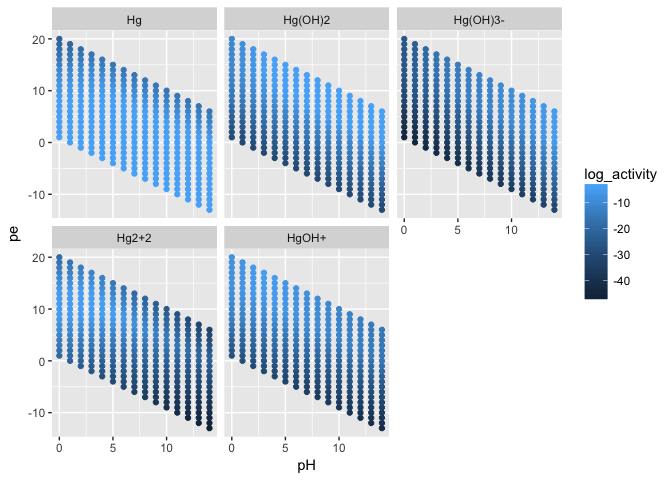
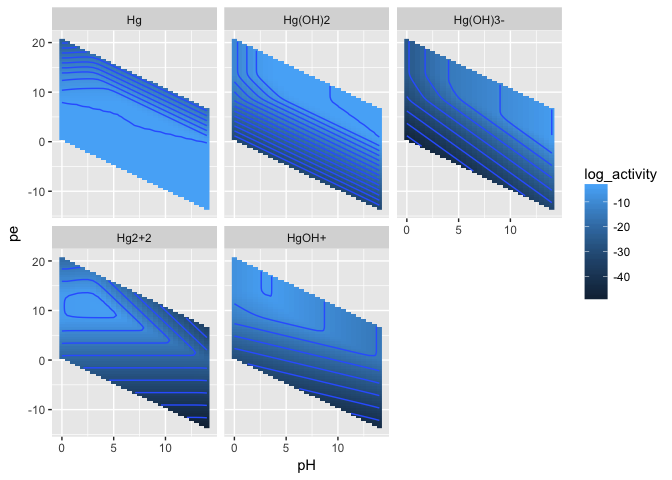
update dbs to use phr_, add tests

diff --git a/README.md b/README.md
@@ -3,12 +3,12 @@
 tidyphreeqc
 ===========
 
-The goal of easyphreeqc is to provide a more useful interface to the existing phreeqc package.
+The goal of tidyphreeqc is to provide a more useful interface to the existing phreeqc package.
 
 Installation
 ------------
 
-You can install easyphreeqc from github with:
+You can install tidyphreeqc from github with:
 
 ``` r
 # install.packages("devtools")
@@ -105,7 +105,7 @@ Pourbaix diagrams
 
 ``` r
 result <- phr_run(
-  phr_solution_list(pH = 0:14, pe = -14:22, Hg = 0.1),
+  phr_solution_list(pH = seq(0, 14, 0.5), pe = seq(-14, 22, 0.5), Hg = 0.1),
   phr_selected_output(
     activities = c("Hg", "Hg2+2", "Hg(OH)2", "Hg(OH)2", "HgOH+", "Hg(OH)3-")
   ),
@@ -116,31 +116,31 @@ result
 #> <phr_run_output>
 #> PHREEQC run with 1 selected output(s)
 #> as_tibble():
-#> # A tibble: 300 x 14
+#> # A tibble: 1,189 x 14
 #>    selected_output   sim state   soln dist_x  time  step    pH    pe la_Hg
 #>    <chr>           <int> <chr>  <int>  <dbl> <dbl> <int> <dbl> <dbl> <dbl>
-#>  1 n1                  1 i_soln     1     NA    NA    NA  14.0 -13.0 -3.92
-#>  2 n1                  1 i_soln     2     NA    NA    NA  13.0 -12.0 -3.99
-#>  3 n1                  1 i_soln     3     NA    NA    NA  14.0 -12.0 -3.92
-#>  4 n1                  1 i_soln     4     NA    NA    NA  12.0 -11.0 -4.00
-#>  5 n1                  1 i_soln     5     NA    NA    NA  13.0 -11.0 -3.99
-#>  6 n1                  1 i_soln     6     NA    NA    NA  14.0 -11.0 -3.92
-#>  7 n1                  1 i_soln     7     NA    NA    NA  11.0 -10.0 -4.00
-#>  8 n1                  1 i_soln     8     NA    NA    NA  12.0 -10.0 -4.00
-#>  9 n1                  1 i_soln     9     NA    NA    NA  13.0 -10.0 -3.99
-#> 10 n1                  1 i_soln    10     NA    NA    NA  14.0 -10.0 -3.92
-#> # ... with 290 more rows, and 4 more variables: `la_Hg2+2` <dbl>,
+#>  1 n1                  1 i_soln     1     NA    NA    NA  14.0 -13.5 -3.92
+#>  2 n1                  1 i_soln     2     NA    NA    NA  13.5 -13.0 -3.98
+#>  3 n1                  1 i_soln     3     NA    NA    NA  14.0 -13.0 -3.92
+#>  4 n1                  1 i_soln     4     NA    NA    NA  13.0 -12.5 -3.99
+#>  5 n1                  1 i_soln     5     NA    NA    NA  13.5 -12.5 -3.98
+#>  6 n1                  1 i_soln     6     NA    NA    NA  14.0 -12.5 -3.92
+#>  7 n1                  1 i_soln     7     NA    NA    NA  12.5 -12.0 -4.00
+#>  8 n1                  1 i_soln     8     NA    NA    NA  13.0 -12.0 -3.99
+#>  9 n1                  1 i_soln     9     NA    NA    NA  13.5 -12.0 -3.98
+#> 10 n1                  1 i_soln    10     NA    NA    NA  14.0 -12.0 -3.92
+#> # ... with 1,179 more rows, and 4 more variables: `la_Hg2+2` <dbl>,
 #> #   `la_Hg(OH)2` <dbl>, `la_HgOH+` <dbl>, `la_Hg(OH)3-` <dbl>
 ```
 
 ``` r
 library(tidyverse)
-#> ── Attaching packages ───────────────────────────────────────────────────────────────────────────────────── tidyverse 1.2.1 ──
+#> ── Attaching packages ─────────────────────────────────────── tidyverse 1.2.1 ──
 #> ✔ ggplot2 2.2.1     ✔ purrr   0.2.4
 #> ✔ tibble  1.4.2     ✔ dplyr   0.7.4
 #> ✔ tidyr   0.7.2     ✔ stringr 1.3.0
 #> ✔ readr   1.1.1     ✔ forcats 0.2.0
-#> ── Conflicts ──────────────────────────────────────────────────────────────────────────────────────── tidyverse_conflicts() ──
+#> ── Conflicts ────────────────────────────────────────── tidyverse_conflicts() ──
 #> ✖ dplyr::filter() masks stats::filter()
 #> ✖ dplyr::lag()    masks stats::lag()
 result_long <- result %>%
@@ -149,8 +149,9 @@ result_long <- result %>%
   mutate(species = str_remove(species, "^la_"))
 
 result_long %>%
-  ggplot(aes(x = pH, y = pe, col = log_activity)) +
-  geom_point() +
+  ggplot(aes(x = pH, y = pe, fill = log_activity)) +
+  geom_raster() +
+  stat_contour(aes(z = log_activity)) +
   facet_wrap(~species)
 ```
 
